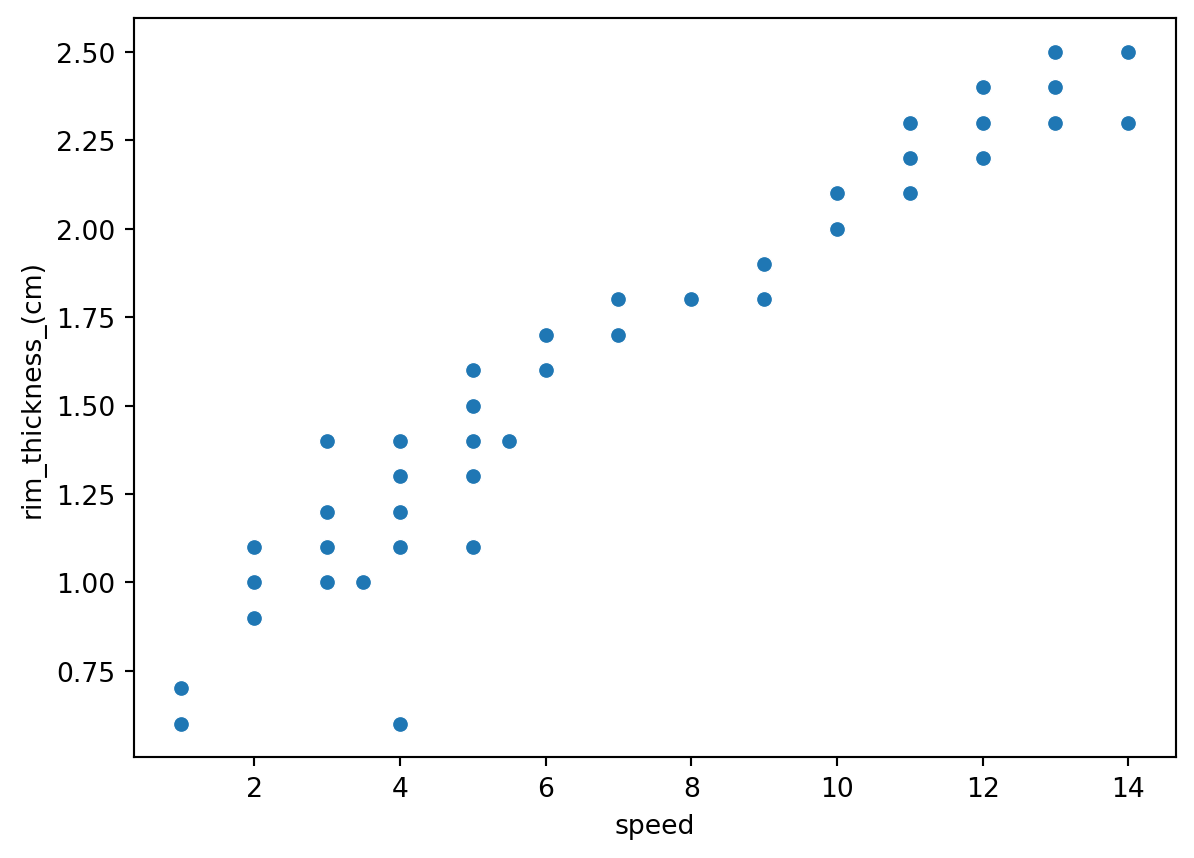
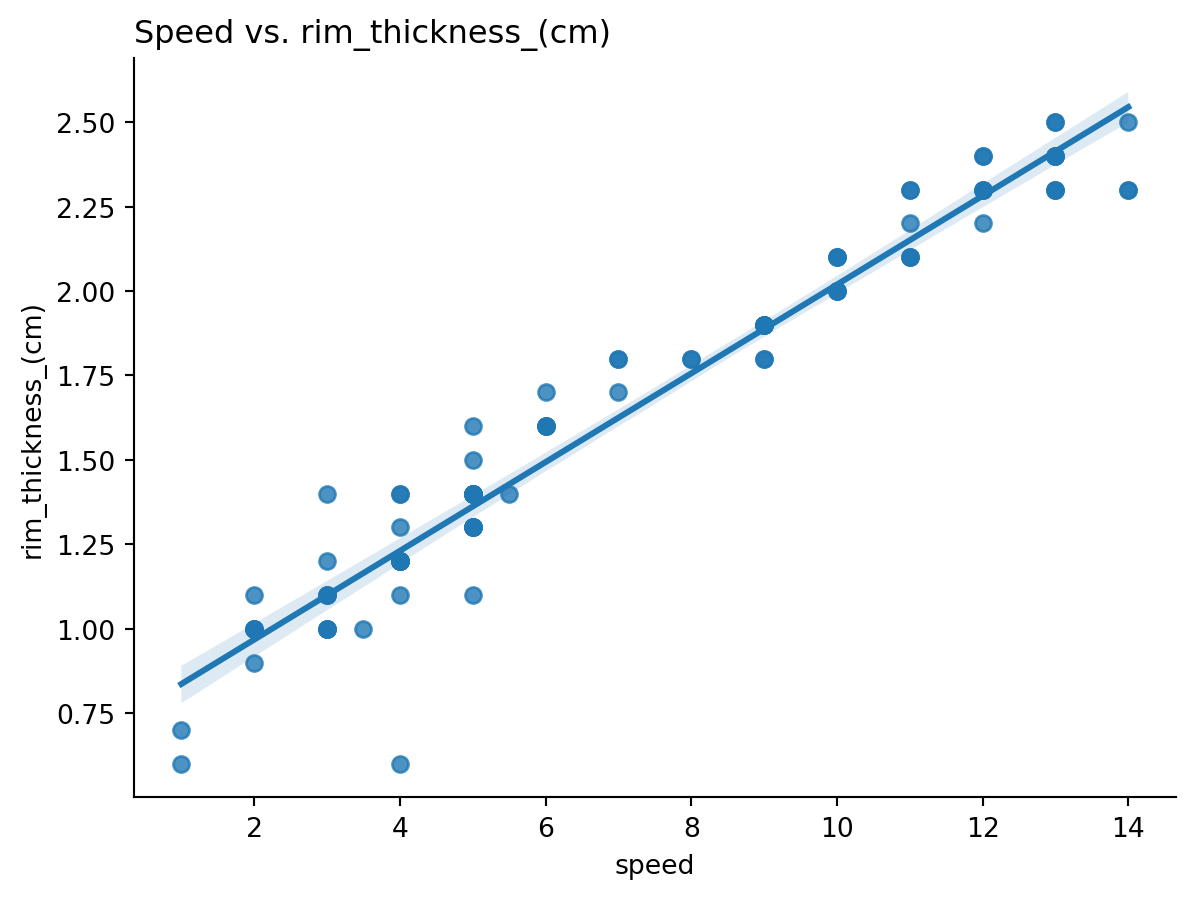
updated flight_numbers.qmd

diff --git a/notebooks/02_presentation/flight_numbers.html b/notebooks/02_presentation/flight_numbers.html
@@ -106,42 +106,26 @@ pre > code.sourceCode > span > a:first-child::before { text-decoration: underlin
 </header>
 
 
-<div id="18a27fcd" class="cell" data-execution_count="1">
-<details class="code-fold">
-<summary>Code</summary>
-<div class="sourceCode cell-code" id="cb1"><pre class="sourceCode python code-with-copy"><code class="sourceCode python"><span id="cb1-1"><a href="#cb1-1" aria-hidden="true" tabindex="-1"></a><span class="co"># See https://github.com/kevinhav/d607_final_project/tree/main/flight_numbers for full code</span></span>
-<span id="cb1-2"><a href="#cb1-2" aria-hidden="true" tabindex="-1"></a></span>
-<span id="cb1-3"><a href="#cb1-3" aria-hidden="true" tabindex="-1"></a><span class="im">import</span> sys</span>
-<span id="cb1-4"><a href="#cb1-4" aria-hidden="true" tabindex="-1"></a><span class="im">import</span> os</span>
-<span id="cb1-5"><a href="#cb1-5" aria-hidden="true" tabindex="-1"></a></span>
-<span id="cb1-6"><a href="#cb1-6" aria-hidden="true" tabindex="-1"></a><span class="co"># Add the root directory to sys.path</span></span>
-<span id="cb1-7"><a href="#cb1-7" aria-hidden="true" tabindex="-1"></a><span class="co"># </span><span class="al">TODO</span><span class="co"> figure out how to use relative path with Quarto</span></span>
-<span id="cb1-8"><a href="#cb1-8" aria-hidden="true" tabindex="-1"></a>sys.path.append(<span class="st">'/Users/kevinhav/projects/d606_final_project'</span>)</span>
-<span id="cb1-9"><a href="#cb1-9" aria-hidden="true" tabindex="-1"></a></span>
-<span id="cb1-10"><a href="#cb1-10" aria-hidden="true" tabindex="-1"></a><span class="im">from</span> flight_numbers <span class="im">import</span> get_data, make_plots</span>
-<span id="cb1-11"><a href="#cb1-11" aria-hidden="true" tabindex="-1"></a><span class="im">import</span> seaborn <span class="im">as</span> sns</span>
-<span id="cb1-12"><a href="#cb1-12" aria-hidden="true" tabindex="-1"></a></span>
-<span id="cb1-13"><a href="#cb1-13" aria-hidden="true" tabindex="-1"></a>df <span class="op">=</span> get_data.get_data()</span></code><button title="Copy to Clipboard" class="code-copy-button"><i class="bi"></i></button></pre></div>
-</details>
-<div class="cell-output cell-output-stderr">
-<pre><code>/Users/kevinhav/projects/d606_final_project/flight_numbers/get_data.py:44: FutureWarning: Passing literal html to 'read_html' is deprecated and will be removed in a future version. To read from a literal string, wrap it in a 'StringIO' object.
-  df = pd.read_html(str(table))[0]</code></pre>
-</div>
-</div>
 <section id="abstract" class="level2">
 <h2 class="anchored" data-anchor-id="abstract">Abstract</h2>
-<p>In this paper I consider the flying discs used in the sport of disc golf, specifically exploring the relationship between their physical characteristics and the way manufacturers market and classify these discs. Using technical specification and manufacturer data, I find strong correlations between the dimensions of a disc’s rim to flight numbers.</p>
+<p>In this paper I consider the flying discs used in the sport of disc golf, specifically exploring the relationship between their physical characteristics and the way manufacturers market and classify these discs. Using technical specification and manufacturer data, I find strong correlations between the dimensions of a disc’s rim to flight numbers, but ultimately conclude that consumers would be best served with a more comprehensive system.</p>
 <section id="introduction-to-disc-golfs-current-climate" class="level3">
 <h3 class="anchored" data-anchor-id="introduction-to-disc-golfs-current-climate">Introduction to disc golf’s current climate</h3>
 <p>Disc golf is a relatively new sport that has experienced an explosive growth trajectory in the past couple of decades. Assuming you are familiar with golf, disc golf has a very similar format and scoring mechanic, with the main difference being that instead of clubbing golf balls into a hole, players throw flying discs, similar to Frisbees, into a target, usually in the form of a specific basket.</p>
 <p>The modern version of the sport has been around for about half a century, and during the COVID-19 pandemic, experienced an explosion in popularity due to its ease of access, affordability, and low contact.</p>
-<p>With this sudden growth spurt, the disc golf community has found itself flooded with new data, information, and perspectives. With an influx of new money and new players, the community found its current knowledge resources to be insufficient and has been turning to data-driven science to answer its questions.</p>
+<p>With this sudden trajectory, the disc golf community has found itself flooded with new data, information, and perspectives. In a flood of new money and new players, the community found its current knowledge resources to be insufficient and has been turning to data-driven science to answer its questions.</p>
 <p>Directly engaging in this exciting and dynamic time, I’d like to take a data science based approach to review one of the most well-known and yet mysterious frameworks in this sport; the disc golf Flight Rating System.</p>
 </section>
 <section id="flight-numbers-and-their-challenges" class="level3">
 <h3 class="anchored" data-anchor-id="flight-numbers-and-their-challenges">Flight numbers and their challenges</h3>
 <p>One of the unique components to disc golf is its namesake; the discs. Disc golf discs are designed to be thrown much further than your standard Frisbee; elite distance players can throw these discs 600-700+ feet through the air, and even for amateurs, 250’ to 400’ is not uncommon.</p>
-<p>The physics of these discs is very interesting and surprisingly complex; very small differences in the physical attributes, including shape, ratios, and plastic blends of the disc can result in a surprising differences in how two discs fly.</p>
+<div class="quarto-figure quarto-figure-center">
+<figure class="figure">
+<p><img src="images/innova_destroyer.jpg" class="img-fluid figure-img"></p>
+<figcaption>An Innova Destroyer disc golf disc</figcaption>
+</figure>
+</div>
+<p>The physics of these discs are interesting and surprisingly complex; very small differences in the physical attributes, including shape, ratios, and plastic blends of the disc can result in a surprising differences in how two discs fly.</p>
 <p>One of the original disc golf manufacturers, Innova Disc Golf, invented a system to help try to categorize discs based on these physical attributes, so players could have an idea of how a disc would perform before purchasing. They named this framework the Innova Flight Number System.</p>
 <p>This system categorizes discs by four measures, which are represented numerically on their own disctinct scales.</p>
 <ul>
@@ -157,12 +141,17 @@ pre > code.sourceCode > span > a:first-child::before { text-decoration: underlin
 <h3 class="anchored" data-anchor-id="comparing-the-flight-number-system-to-physical-disc-characteristics">Comparing the flight number system to physical disc characteristics</h3>
 <p>In an attempt to shed some light on how these flights numbers may be determined, I have compared the rating numbers for Innova’s most popular disc molds against their physical characteristics. My goal was to see if there was some obvious relationship that could potentially explain the high degree of variability we see in these calssifications.</p>
 <p>As part of the Professional Disc Golf Association (PDGA)’s process, discs are submitted by manufacturers to be approved according to the PDGA’s technical specifications<a href="#fn1" class="footnote-ref" id="fnref1" role="doc-noteref"><sup>1</sup></a>. These specifications are made available by the PDGA for all approved molds, and includes specific standardized measurements which I have compared against the mold’s respective flight numbers.</p>
-<p><img src="images/pdga_disc_specifications.png" class="img-fluid" alt="Diagram of disc measurements. Source: PDGA Technical Specifications"></p>
+<div class="quarto-figure quarto-figure-center">
+<figure class="figure">
+<p><img src="images/pdga_disc_specifications.png" class="img-fluid figure-img" alt="Diagram of disc measurements. Source: PDGA Technical Specifications"></p>
+<figcaption>Diagram of disc measurements. Source: PDGA Technical Specifications</figcaption>
+</figure>
+</div>
 <p>Below is the combined data, with flight numbers from Innova and physical measurements from the PDGA.</p>
-<div id="53cf507a" class="cell" data-execution_count="2">
+<div id="92c01439" class="cell" data-execution_count="2">
 <details class="code-fold">
 <summary>Code</summary>
-<div class="sourceCode cell-code" id="cb3"><pre class="sourceCode python code-with-copy"><code class="sourceCode python"><span id="cb3-1"><a href="#cb3-1" aria-hidden="true" tabindex="-1"></a>df.head()</span></code><button title="Copy to Clipboard" class="code-copy-button"><i class="bi"></i></button></pre></div>
+<div class="sourceCode cell-code" id="cb1"><pre class="sourceCode python code-with-copy"><code class="sourceCode python"><span id="cb1-1"><a href="#cb1-1" aria-hidden="true" tabindex="-1"></a>df.head()</span></code><button title="Copy to Clipboard" class="code-copy-button"><i class="bi"></i></button></pre></div>
 </details>
 <div class="cell-output cell-output-display" data-execution_count="2">
 <div>
@@ -291,9 +280,9 @@ pre > code.sourceCode > span > a:first-child::before { text-decoration: underlin
 <div id="cell-fig-corr-plot" class="cell" data-execution_count="3">
 <details class="code-fold">
 <summary>Code</summary>
-<div class="sourceCode cell-code" id="cb4"><pre class="sourceCode python code-with-copy"><code class="sourceCode python"><span id="cb4-1"><a href="#cb4-1" aria-hidden="true" tabindex="-1"></a>corr_matrix <span class="op">=</span> make_plots.make_correlation_matrix(df)</span>
-<span id="cb4-2"><a href="#cb4-2" aria-hidden="true" tabindex="-1"></a></span>
-<span id="cb4-3"><a href="#cb4-3" aria-hidden="true" tabindex="-1"></a>make_plots.make_correlation_plot(corr_matrix)</span></code><button title="Copy to Clipboard" class="code-copy-button"><i class="bi"></i></button></pre></div>
+<div class="sourceCode cell-code" id="cb2"><pre class="sourceCode python code-with-copy"><code class="sourceCode python"><span id="cb2-1"><a href="#cb2-1" aria-hidden="true" tabindex="-1"></a>corr_matrix <span class="op">=</span> make_plots.make_correlation_matrix(df)</span>
+<span id="cb2-2"><a href="#cb2-2" aria-hidden="true" tabindex="-1"></a></span>
+<span id="cb2-3"><a href="#cb2-3" aria-hidden="true" tabindex="-1"></a>make_plots.make_correlation_plot(corr_matrix)</span></code><button title="Copy to Clipboard" class="code-copy-button"><i class="bi"></i></button></pre></div>
 </details>
 <div class="cell-output cell-output-display">
 <div id="fig-corr-plot" class="quarto-float quarto-figure quarto-figure-center anchored">
@@ -311,32 +300,29 @@ Figure&nbsp;1: Disc correlation
 <section id="speed" class="level4">
 <h4 class="anchored" data-anchor-id="speed">Speed</h4>
 <p>According to the flight number system, Speed represents the velocity at which the disc should be thrown in order to achieve the manufacturer’s intended flight, and discs with higher Speed are generally used as distance drivers. Of all the flight number categories, Speed has the largest range, spanning from 1-14</p>
-<div id="82bff415" class="cell" data-execution_count="4">
+<div id="9f38b23d" class="cell" data-execution_count="4">
 <details class="code-fold">
 <summary>Code</summary>
-<div class="sourceCode cell-code" id="cb5"><pre class="sourceCode python code-with-copy"><code class="sourceCode python"><span id="cb5-1"><a href="#cb5-1" aria-hidden="true" tabindex="-1"></a>make_plots.make_flight_number_hist(df, <span class="st">'speed'</span>)</span></code><button title="Copy to Clipboard" class="code-copy-button"><i class="bi"></i></button></pre></div>
+<div class="sourceCode cell-code" id="cb3"><pre class="sourceCode python code-with-copy"><code class="sourceCode python"><span id="cb3-1"><a href="#cb3-1" aria-hidden="true" tabindex="-1"></a>make_plots.make_flight_number_hist(df, <span class="st">'speed'</span>)</span></code><button title="Copy to Clipboard" class="code-copy-button"><i class="bi"></i></button></pre></div>
 </details>
-<div class="cell-output cell-output-display" data-execution_count="4">
-<pre><code>Text(0.0, 1.0, 'Distribution of discs by Speed')</code></pre>
-</div>
 <div class="cell-output cell-output-display">
 <div>
 <figure class="figure">
-<p><img src="flight_numbers_files/figure-html/cell-5-output-2.png" width="585" height="449" class="figure-img"></p>
+<p><img src="flight_numbers_files/figure-html/cell-5-output-1.png" width="585" height="449" class="figure-img"></p>
 </figure>
 </div>
 </div>
 </div>
 <p>From my analysis, the most clear and straightforward relationship across all characteristics is that of Speed and a disc’s rim, specifically the thickness and shape. Intuitively this makes sense, as we can think of the rim of a disc as its “wing”, which should play a significant part in aerodynamic characteristics.</p>
-<div id="702df229" class="cell" data-execution_count="5">
+<div id="67425147" class="cell" data-execution_count="5">
 <details class="code-fold">
 <summary>Code</summary>
-<div class="sourceCode cell-code" id="cb7"><pre class="sourceCode python code-with-copy"><code class="sourceCode python"><span id="cb7-1"><a href="#cb7-1" aria-hidden="true" tabindex="-1"></a>sns.scatterplot(df, x<span class="op">=</span><span class="st">'speed'</span>, y<span class="op">=</span><span class="st">'rim_thickness_(cm)'</span>)</span></code><button title="Copy to Clipboard" class="code-copy-button"><i class="bi"></i></button></pre></div>
+<div class="sourceCode cell-code" id="cb4"><pre class="sourceCode python code-with-copy"><code class="sourceCode python"><span id="cb4-1"><a href="#cb4-1" aria-hidden="true" tabindex="-1"></a>make_plots.make_scatterplot(df, x<span class="op">=</span><span class="st">'speed'</span>, y<span class="op">=</span><span class="st">'rim_thickness_(cm)'</span>)</span></code><button title="Copy to Clipboard" class="code-copy-button"><i class="bi"></i></button></pre></div>
 </details>
 <div class="cell-output cell-output-display">
 <div>
 <figure class="figure">
-<p><img src="flight_numbers_files/figure-html/cell-6-output-1.png" width="597" height="429" class="figure-img"></p>
+<p><img src="flight_numbers_files/figure-html/cell-6-output-1.png" width="597" height="449" class="figure-img"></p>
 </figure>
 </div>
 </div>
@@ -345,16 +331,29 @@ Figure&nbsp;1: Disc correlation
 <section id="glide" class="level4">
 <h4 class="anchored" data-anchor-id="glide">Glide</h4>
 <p>Of all the flight rating categories, the disc golf community finds Glide to be one of the least informative attributes. Glide is intended to indicate how easily a disc will move through the air, but given we are throwing discs and not shot-put, this is an assumed characteristic.</p>
-<p>Notably, Glide seems to be highly correlated with Speed. We can see a similar, albeit less convincing, relationships in line with those that we saw for Speed as seen in <a href="#fig-corr-plot" class="quarto-xref">Figure&nbsp;1</a>.</p>
-<div id="d8075091" class="cell" data-execution_count="6">
+<div id="422279e7" class="cell" data-execution_count="6">
 <details class="code-fold">
 <summary>Code</summary>
-<div class="sourceCode cell-code" id="cb8"><pre class="sourceCode python code-with-copy"><code class="sourceCode python"><span id="cb8-1"><a href="#cb8-1" aria-hidden="true" tabindex="-1"></a>make_plots.make_stripplot(df, <span class="st">'glide'</span>, <span class="st">'speed'</span>)</span></code><button title="Copy to Clipboard" class="code-copy-button"><i class="bi"></i></button></pre></div>
+<div class="sourceCode cell-code" id="cb5"><pre class="sourceCode python code-with-copy"><code class="sourceCode python"><span id="cb5-1"><a href="#cb5-1" aria-hidden="true" tabindex="-1"></a>make_plots.make_flight_number_hist(df, <span class="st">'glide'</span>)</span></code><button title="Copy to Clipboard" class="code-copy-button"><i class="bi"></i></button></pre></div>
 </details>
 <div class="cell-output cell-output-display">
 <div>
 <figure class="figure">
-<p><img src="flight_numbers_files/figure-html/cell-7-output-1.png" width="585" height="429" class="figure-img"></p>
+<p><img src="flight_numbers_files/figure-html/cell-7-output-1.png" width="585" height="449" class="figure-img"></p>
+</figure>
+</div>
+</div>
+</div>
+<p>Notably, Glide seems to be highly correlated with Speed. We can see a similar, albeit less convincing, relationships in line with those that we saw for Speed as seen in <a href="#fig-corr-plot" class="quarto-xref">Figure&nbsp;1</a>.</p>
+<div id="933c38c6" class="cell" data-execution_count="7">
+<details class="code-fold">
+<summary>Code</summary>
+<div class="sourceCode cell-code" id="cb6"><pre class="sourceCode python code-with-copy"><code class="sourceCode python"><span id="cb6-1"><a href="#cb6-1" aria-hidden="true" tabindex="-1"></a>make_plots.make_stripplot(df, <span class="st">'glide'</span>, <span class="st">'speed'</span>)</span></code><button title="Copy to Clipboard" class="code-copy-button"><i class="bi"></i></button></pre></div>
+</details>
+<div class="cell-output cell-output-display">
+<div>
+<figure class="figure">
+<p><img src="flight_numbers_files/figure-html/cell-8-output-1.png" width="585" height="449" class="figure-img"></p>
 </figure>
 </div>
 </div>
@@ -363,26 +362,65 @@ Figure&nbsp;1: Disc correlation
 <section id="turn" class="level4">
 <h4 class="anchored" data-anchor-id="turn">Turn</h4>
 <p>On the other hand, perhaps no attribute of a disc is discussed and debated more than Turn and her sister Fade, with their sum generally referred to as Stability.</p>
-<div id="b29e2bc1" class="cell" data-execution_count="7">
+<div id="d2489358" class="cell" data-execution_count="8">
 <details class="code-fold">
 <summary>Code</summary>
-<div class="sourceCode cell-code" id="cb9"><pre class="sourceCode python code-with-copy"><code class="sourceCode python"><span id="cb9-1"><a href="#cb9-1" aria-hidden="true" tabindex="-1"></a>make_plots.make_stripplot(df, <span class="st">'turn'</span>, <span class="st">'fade'</span>)</span></code><button title="Copy to Clipboard" class="code-copy-button"><i class="bi"></i></button></pre></div>
+<div class="sourceCode cell-code" id="cb7"><pre class="sourceCode python code-with-copy"><code class="sourceCode python"><span id="cb7-1"><a href="#cb7-1" aria-hidden="true" tabindex="-1"></a>make_plots.make_flight_number_hist(df, <span class="st">'turn'</span>)</span></code><button title="Copy to Clipboard" class="code-copy-button"><i class="bi"></i></button></pre></div>
 </details>
 <div class="cell-output cell-output-display">
 <div>
 <figure class="figure">
-<p><img src="flight_numbers_files/figure-html/cell-8-output-1.png" width="576" height="429" class="figure-img"></p>
+<p><img src="flight_numbers_files/figure-html/cell-9-output-1.png" width="585" height="449" class="figure-img"></p>
 </figure>
 </div>
 </div>
 </div>
-<p>A disc’s flight can be thought of as consisting of two phases; the first is the high spin phase, when the disc is first thrown and has the most kinetic energy, followed by a low spin phase, where the disc begins to lose RPM and succumbs to gravity. ~ Turn describes how a disc behaves during the high spin phase. Considering a typical right handed player throwing a backhand shot on a neutral angle, Turn indicates how much the disc will move tangent to its rotation (clockwise in this example), or simply put, how far right it will drift during its flight.</p>
+<p>A disc’s flight can be thought of as consisting of two phases; the first is the high spin phase, when the disc is first thrown and has the most kinetic energy, followed by a low spin phase, where the disc begins to lose RPM and succumbs to gravity.</p>
+<p>Turn describes the high spin phase, while Fade describes the low.</p>
+<div id="cell-fig-turn-fade" class="cell" data-execution_count="9">
+<details class="code-fold">
+<summary>Code</summary>
+<div class="sourceCode cell-code" id="cb8"><pre class="sourceCode python code-with-copy"><code class="sourceCode python"><span id="cb8-1"><a href="#cb8-1" aria-hidden="true" tabindex="-1"></a>make_plots.make_stripplot(df, <span class="st">'turn'</span>, <span class="st">'fade'</span>)</span></code><button title="Copy to Clipboard" class="code-copy-button"><i class="bi"></i></button></pre></div>
+</details>
+<div class="cell-output cell-output-display">
+<div id="fig-turn-fade" class="quarto-float quarto-figure quarto-figure-center anchored" width="587" height="449">
+<figure class="quarto-float quarto-float-fig figure">
+<div aria-describedby="fig-turn-fade-caption-0ceaefa1-69ba-4598-a22c-09a6ac19f8ca">
+<img src="flight_numbers_files/figure-html/fig-turn-fade-output-1.png" id="fig-turn-fade" width="587" height="449" class="figure-img">
+</div>
+<figcaption class="quarto-float-caption-bottom quarto-float-caption quarto-float-fig quarto-uncaptioned" id="fig-turn-fade-caption-0ceaefa1-69ba-4598-a22c-09a6ac19f8ca">
+Figure&nbsp;2
+</figcaption>
+</figure>
+</div>
+</div>
+</div>
+<p>Considering a typical right handed player throwing a backhand shot on a neutral angle, Turn indicates how much the disc will move tangent to its rotation (clockwise in this example), or simply put, how far right it will drift during its flight.</p>
+<div class="quarto-figure quarto-figure-center">
+<figure class="figure">
+<p><img src="images/flight_pattern.jpg" class="img-fluid figure-img"></p>
+<figcaption>A set of flight patterns for different discs. Credit to <a href="https://blog.infinitediscs.com/flight-numbers-what-they-mean-and-a-better-approach/">Infinite Discs</a></figcaption>
+</figure>
+</div>
 <p>From <a href="#fig-corr-plot" class="quarto-xref">Figure&nbsp;1</a> we see that the depth of the rim has the greatest impact on Turn, and perhaps more interestingly, Turn seems to have an inverse relationship with Speed’s correlations, meaning discs with higher speed tend to have less turn.</p>
 </section>
 <section id="fade" class="level4">
 <h4 class="anchored" data-anchor-id="fade">Fade</h4>
 <p>Fade is the equally important opposite of Turn, and describes the second, lower spin phase of the disc’s flight. Given the same right hand backhand throw, a high Fade is intended to describe how the disc will tend to move left and towards the ground.</p>
-<p>As expected, we see an opposite relationship between Turn and Fade, in both directionality and strength, as seen in <a href="#fig-corr-plot" class="quarto-xref">Figure&nbsp;1</a>.</p>
+<div id="f18183bf" class="cell" data-execution_count="10">
+<details class="code-fold">
+<summary>Code</summary>
+<div class="sourceCode cell-code" id="cb9"><pre class="sourceCode python code-with-copy"><code class="sourceCode python"><span id="cb9-1"><a href="#cb9-1" aria-hidden="true" tabindex="-1"></a>make_plots.make_flight_number_hist(df, <span class="st">'fade'</span>)</span></code><button title="Copy to Clipboard" class="code-copy-button"><i class="bi"></i></button></pre></div>
+</details>
+<div class="cell-output cell-output-display">
+<div>
+<figure class="figure">
+<p><img src="flight_numbers_files/figure-html/cell-11-output-1.png" width="585" height="449" class="figure-img"></p>
+</figure>
+</div>
+</div>
+</div>
+<p>As expected, we see an opposite relationship between Turn and Fade, in both directionality and strength, as seen in <a href="#fig-corr-plot" class="quarto-xref">Figure&nbsp;1</a> by physical characteristics and empirically in <a href="#fig-turn-fade" class="quarto-xref">Figure&nbsp;2</a>.</p>
 </section>
 </section>
 <section id="other-considerations" class="level3">

diff --git a/flight_numbers/make_plots.py b/flight_numbers/make_plots.py
@@ -25,19 +25,29 @@ def make_pair_plot(df):
 
 def make_flight_number_hist(df, flight_number: str):
 
-    return sns.countplot(df, x=flight_number).set_title(
-        f"Distribution of discs by {flight_number.title()}", loc="left"
-    )
+    plt.title(f"Distribution of discs by {flight_number.title()}", loc="left")
+
+    sns.despine()
+
+    return sns.countplot(df, x=flight_number)
 
 
 def make_scatterplot(df, x, y):
 
-    return sns.scatterplot(data=df, x=x, y=y)
+    plt.title(f"{x.title()} vs. {y}", loc="left")
+
+    sns.despine()
+
+    return sns.regplot(data=df, x=x, y=y)
 
 
 def make_stripplot(df, x, y):
 
-    return sns.stripplot(data=df, x=x, y=y)
+    plt.title(f"{x.title()} vs. {y}", loc="left")
+
+    sns.despine()
+
+    return sns.regplot(data=df, x=x, y=y, x_jitter=True, y_jitter=True)
 
 
 def make_correlation_matrix(df):
@@ -50,6 +60,8 @@ def make_correlation_matrix(df):
 def make_correlation_plot(corr_matrix):
 
     plt.title("Flight Numbers and their Physical Characteristics", loc="left")
+
+    sns.despine()
 
     return sns.heatmap(
         data=corr_matrix,
